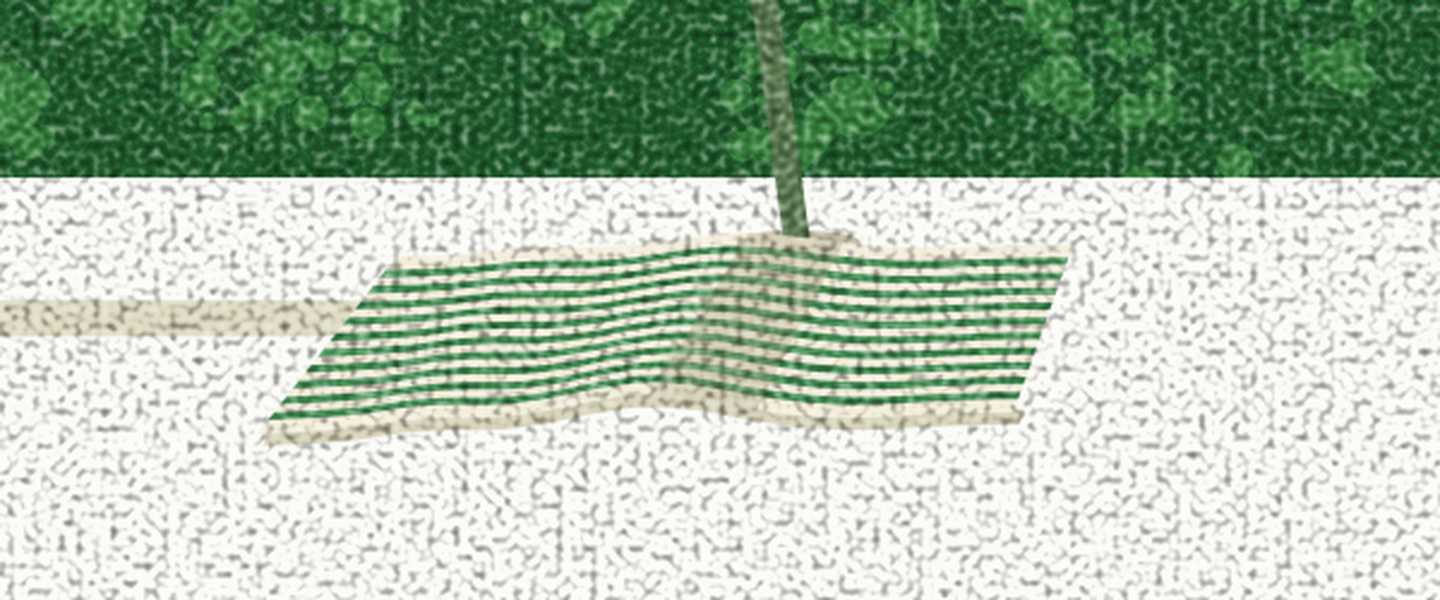
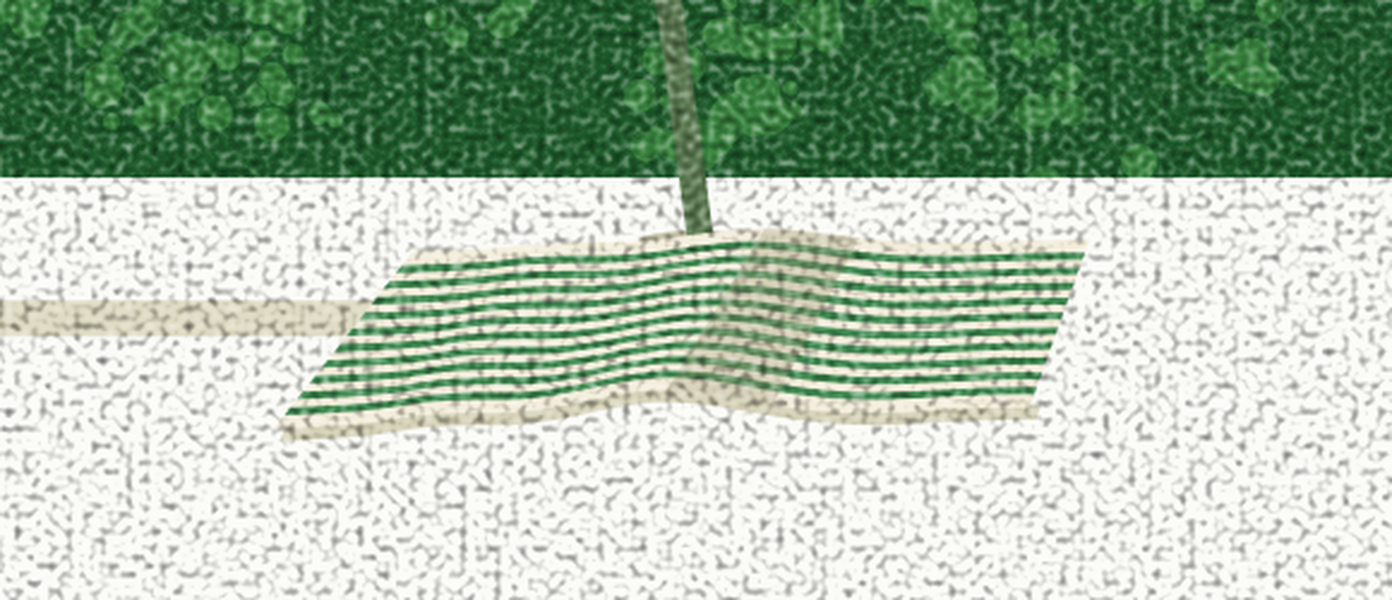
Serviette centrée sous le mât : centre à 12 px, bosse à 8 px du bâton
L'ancre passe de 0.814 à 0.840 de la largeur : le centre géométrique
des quatre coins tombe à l'aplomb du pied du parasol (x=1512), et la
bosse principale (u=0.5) s'y place par construction. Mesuré sur le
rendu : sommet de bosse x=1504, centre du tissu ≈1500.

Claude-Session: https://claude.ai/code/session_015un2t2xRvThoKm9jAu6CXK

diff --git a/illustration/construire.py b/illustration/construire.py
@@ -580,7 +580,7 @@ SVG = u"""<svg xmlns="http://www.w3.org/2000/svg"
            PERSONNAGES=(personnages.engendrer(LARGEUR, HAUTEUR)
                         if AVEC_PERSONNAGES
                         else (personnages.serviette_rayee(
-                                  0.814 * LARGEUR, 0.8595 * HAUTEUR, 1.0, 2)
+                                  0.840 * LARGEUR, 0.858 * HAUTEUR, 1.0, 2)
                               if AVEC_SERVIETTE_RAYEE
                               else '  <!-- personnages retires -->')),
            HERBE=(herbe.engendrer(LARGEUR, HAUTEUR, PART_HERBE)[0]

diff --git a/illustration/METHODE.md b/illustration/METHODE.md
@@ -229,6 +229,15 @@ plus haute sur le bord près que sur le bord loin. Et c'est **l'ombre du
 flanc** qui transforme la montée des lignes en relief : sans elle les
 rayures ondulent, avec elle le tissu bombe.
 
+**« Au milieu du parasol » veut dire : le centre de l'objet sous le mât.**
+Pas son bord, pas son coin d'ancrage, pas « à côté du pied » — son **centre
+géométrique** à l'aplomb du bâton. L'ancre d'un objet relevé par ses coins
+n'est pas son centre : il faut calculer le centre des quatre coins et le
+caler sur le mât, puis le **mesurer sur le rendu** (mât à x = 1512, sommet
+de la bosse à 1504, centre du tissu à ≈ 1500). Et comme la bosse principale
+est à u = 0,5, centrer le tissu place le pli sous le mât par construction —
+les deux exigences n'en font qu'une.
+
 **Un tissu, c'est du désordre cohérent.** Les rayures droites faisaient un
 carrelage ; le mouvement juste est UN SEUL champ de plis d(u), commun au
 contour et aux neuf rayures — c'est le même pli qui les soulève toutes.
